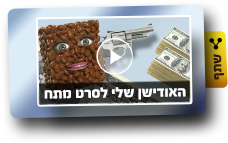
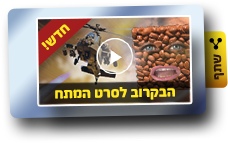
stage3 trailer added

diff --git a/public/javascripts/controllers.js b/public/javascripts/controllers.js
@@ -69,17 +69,25 @@ var GlobalCtrl = ['$scope', '$resource', '$location', '$window', '$routeParams',
 			return; 
 		}
 		$scope.Users.query({}, function(response){
-			var random = Math.floor((Math.random()*3000)/1000)
-			$scope.videoId = response[random].videoId
-			$scope.track(response[random].name + ' Autoplay');
-			$scope.thumbs = response;
-			var newObj = {}
+			var trailer = false
+			, newObj = {}
 			, totalVotes = 0;
-
-			for(var i=0;i<response.length;i++){
+			for (var i = 0;i<response.length;i++) {
+				if(response[i].name === 'trailer') {
+					trailer = true;
+					var key = i;
+				}
 				newObj[response[i]._id] = response[i];
 				totalVotes = totalVotes + response[i].votes;
-			}
+			} 
+			if (!trailer)
+				var key = Math.floor((Math.random()*3000)/1000);
+
+			$scope.currentVideo = response[key];
+			$scope.videoId = response[key].videoId;
+			$scope.videoName = response[key].name;
+			$scope.track(response[key].name + ' Autoplay');
+			$scope.thumbs = response;
 			$scope.users = newObj;
 			$scope.totalVotes = totalVotes;
 		});
@@ -90,9 +98,27 @@ var GlobalCtrl = ['$scope', '$resource', '$location', '$window', '$routeParams',
 var MainCtrl = ['$scope', function($scope){
 	$scope.glob.mode='main';
 	$scope.track('HP');
+	function replaceArray(oldArray, old, nw){
+		for (var i=0;i<oldArray.length;i++){
+			itm = oldArray[i];
+			if(itm['_id'] == old)
+				var oldPos = i;
+			if(itm['_id']  == nw)
+				var newPos = i;
+		}
+		var oldItem = oldArray[oldPos];
+		var newItem = oldArray[newPos];
+		oldArray[oldPos] = newItem;
+		oldArray[newPos] = oldItem;
+		return oldArray;
+	}
 	$scope.setVideo = function(index){
-		$scope.videoId = $scope.users[index].videoId;
-		$scope.track($scope.users[index].name);
+		var oldId = $scope.currentVideo._id;
+		$scope.currentVideo = $scope.thumbs[index];
+		$scope.thumbs = replaceArray($scope.thumbs, oldId, $scope.thumbs[index]._id);
+		$scope.videoName = $scope.currentVideo.name;
+		$scope.videoId = $scope.currentVideo.videoId;
+		$scope.track($scope.thumbs[index].name);
 	}
 }];
 

diff --git a/public/stylesheets/style.css b/public/stylesheets/style.css
@@ -5,7 +5,8 @@ a{color:#ffe821;}
 #wrapper{background:transparent url(../images/main_bg.png) no-repeat top left;height:700px;margin:0 auto;width:1024px;position:relative;}
 .popup{background:transparent url(../images/popup_bg.jpg) no-repeat center center;height:700px;width:1024px;overflow:hidden;position:relative;}.popup .close{cursor:pointer;display:block;height:22px;left:51px;position:absolute;top:43px;width:22px;z-index:1000;}.popup .close:hover{background:white;}
 .popup .content{height:663px;left:23px;padding:3px;position:absolute;top:15px;width:978px;z-index:1;}
-@-webkit-keyframes bounce{0%{-webkit-transform:translateY(0);} 100%{-webkit-transform:translateY(-20px);}}@-moz-keyframes bounce{0%{-moz-transform:translateY(0);} 100%{-moz-transform:translateY(-20px);}}#elm_vote{background:transparent url(../images/main_elm_vote.png) no-repeat center center;display:block;height:146px;position:absolute;left:29px;top:5px;width:151px;z-index:40;}
+@-webkit-keyframes bounce{0%{-webkit-transform:translateY(0);} 100%{-webkit-transform:translateY(-20px);}}@-moz-keyframes bounce{0%{-moz-transform:translateY(0);} 100%{-moz-transform:translateY(-20px);}}#elm_banner.trailer{background:transparent url(../images/main_elm_new.png) no-repeat center center;display:block;height:179px;position:absolute;left:68px;top:144px;width:218px;z-index:40;}
+#elm_vote{background:transparent url(../images/main_elm_vote.png) no-repeat center center;display:block;height:146px;position:absolute;left:29px;top:5px;width:151px;z-index:40;}
 #elm_ipad{background:transparent url(../images/main_elm_ipad.png) no-repeat center center;height:122px;position:absolute;width:153px;left:143px;top:3px;z-index:30;}
 #elm_message{background:transparent url(../images/main_elm_message.png) no-repeat center center;position:absolute;height:101px;left:110px;top:10px;width:427px;z-index:100;}
 #main_player{background:transparent url(../images/main_player.png) no-repeat center center;height:478px;left:36px;position:absolute;top:112px;width:787px;z-index:20;}

diff --git a/controllers/users.js b/controllers/users.js
@@ -19,7 +19,7 @@ module.exports = {
   		});
 	},
 	index: function(req,res,next){
-		db.Users.find({},{'__v': 1, '_id': 1, 'description': 1, 'name': 1, 'videoId': 1},{sort:{dateCreated: 1}},function(err,doc){
+		db.Users.find({},{'__v': 1, '_id': 1, 'description': 1, 'name': 1, 'videoId': 1},{sort:{name: 1}},function(err,doc){
 			var ndoc = JSON.parse(JSON.stringify(doc));
 			for(var i=0;i<ndoc.length;i++) {
 				ndoc[i].votes = ndoc[i].__v;

diff --git a/public/stylesheets/main.less b/public/stylesheets/main.less
@@ -9,6 +9,17 @@
 	100% { -moz-transform: translateY(-20px); }
 }
 
+#elm_banner.trailer {
+	background: transparent url(../images/main_elm_new.png) no-repeat center center;
+	display: block;
+	height: 179px;
+	position: absolute;
+	left: 68px;
+	top: 144px;
+	width: 218px;
+	z-index: 40;
+}
+
 #elm_vote {
 	background: transparent url(../images/main_elm_vote.png) no-repeat center center;
 	display: block;
